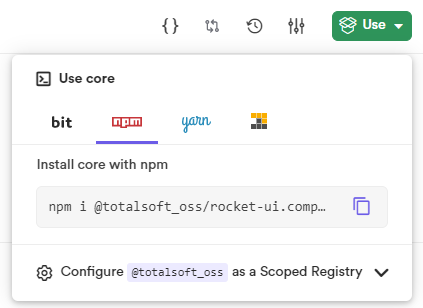
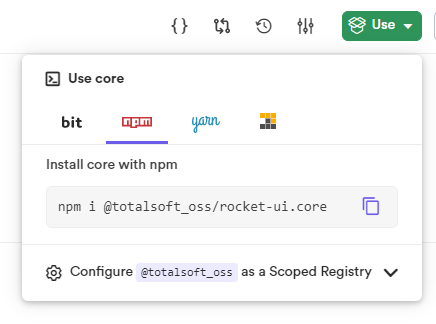
tag components to v1.0.0

diff --git a/README.md b/README.md
@@ -59,7 +59,7 @@ npm i @totalsoft_oss/rocket-ui.core
     import React from 'react'
     import Typography from '@totalsoft_oss/rocket-ui.components.data-display.typography'
     /* example using core package
-    import { Typography } from '@totalsoft_oss/rocket-ui.components.core'
+    import { Typography } from '@totalsoft_oss/rocket-ui.core'
     */
 
     const App = () => {
